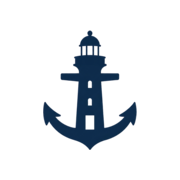
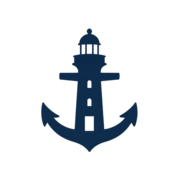
v1.10.4
Claude-Session: https://claude.ai/code/session_0155bbjeHgokccaxRQAN9Hf5

diff --git a/index.html b/index.html
@@ -4,7 +4,7 @@
   <meta charset="utf-8">
   <meta name="viewport" content="width=device-width, initial-scale=1">
   <title>Anchor Solas Pipe Band</title>
-  <meta name="version" content="v1.10.3">
+  <meta name="version" content="v1.10.4">
   <meta name="description" content="Anchor Solas Pipe Band, the alumni pipe band of the 64th Boys' Brigade Singapore.">
   <link rel="canonical" href="https://www.anchorsolaspb.com/">
   <meta property="og:type" content="website">
@@ -18,8 +18,11 @@
   <meta property="og:image:alt" content="Anchor Solas Pipe Band pipers and drummers in uniform">
   <meta name="twitter:card" content="summary_large_image">
   <meta name="theme-color" content="#1C2D4A">
-  <link rel="icon" href="favicon.ico" sizes="48x48">
-  <link rel="icon" type="image/png" href="assets/images/icon-192.png" sizes="192x192">
+  <link rel="icon" type="image/png" href="assets/images/favicon-192.png" sizes="192x192">
+  <link rel="icon" type="image/png" href="assets/images/favicon-144.png" sizes="144x144">
+  <link rel="icon" type="image/png" href="assets/images/favicon-96.png" sizes="96x96">
+  <link rel="icon" type="image/png" href="assets/images/favicon-48.png" sizes="48x48">
+  <link rel="icon" href="favicon.ico" sizes="16x16 32x32 48x48">
   <link rel="apple-touch-icon" href="assets/images/apple-touch-icon.png">
   <script type="application/ld+json">
   {

diff --git a/404.html b/404.html
@@ -6,8 +6,11 @@
   <title>Page not found | Anchor Solas Pipe Band</title>
   <meta name="robots" content="noindex">
   <meta name="theme-color" content="#1C2D4A">
-  <link rel="icon" href="/favicon.ico" sizes="48x48">
-  <link rel="icon" type="image/png" href="/assets/images/icon-192.png" sizes="192x192">
+  <link rel="icon" type="image/png" href="/assets/images/favicon-192.png" sizes="192x192">
+  <link rel="icon" type="image/png" href="/assets/images/favicon-144.png" sizes="144x144">
+  <link rel="icon" type="image/png" href="/assets/images/favicon-96.png" sizes="96x96">
+  <link rel="icon" type="image/png" href="/assets/images/favicon-48.png" sizes="48x48">
+  <link rel="icon" href="/favicon.ico" sizes="16x16 32x32 48x48">
   <link rel="apple-touch-icon" href="/assets/images/apple-touch-icon.png">
   <link rel="stylesheet" href="/assets/css/styles.css">
   <style>

diff --git a/CLAUDE.md b/CLAUDE.md
@@ -8,7 +8,7 @@ Project memory for Claude Code. Put this file at the root of the `anchorsolaspb.
 - Live at **https://www.anchorsolaspb.com** (HTTPS enforced). `https://anchorsolaspb.github.io` redirects there.
 - Built and maintained by Crego (owner of the repo and the `anchorsolaspb` GitHub organisation).
 - Must stay **free to run**. Do not add paid services.
-- Latest built version is **v1.10.3** (see `CHANGELOG.md`). The `<meta name="version">` tag in `index.html` holds the current version.
+- Latest built version is **v1.10.4** (see `CHANGELOG.md`). The `<meta name="version">` tag in `index.html` holds the current version.
 
 ## Hosting and services
 
@@ -36,7 +36,7 @@ No wildcard records. Custom domain in GitHub Pages settings is `www.anchorsolasp
 
 ```
 index.html                 Shell page. Loads scripts in order, holds meta, OG, version tags and JSON-LD (site name, logo)
-favicon.ico                Site icon 16/32/48 px (navy mark in a white circle). Also assets/images/icon-192.png, icon-512.png, apple-touch-icon.png
+favicon.ico                Site icon 16/32/48 px (navy mark in a white circle). Also assets/images/favicon-48/96/144/192.png (listed first in <head> so Google uses a large, sharp one), icon-512.png (JSON-LD logo), apple-touch-icon.png. Make icons from the full-size mark in git history (commit ad89244, logo-mark-navy.png 428x545), not the 200 px site copy
 404.html                   Standalone "page not found" page served by GitHub Pages. Plain HTML, absolute /assets paths, noindex
 CNAME                      Custom domain (managed by GitHub)
 CHANGELOG.md               Version history, newest first

diff --git a/CHANGELOG.md b/CHANGELOG.md
@@ -1,5 +1,8 @@
 # Anchor Solas Pipe Band website: changelog
 
+## v1.10.4 (3 Oct 2026)
+- Sharper site icon in Google results and browser tabs. Google was enlarging the small 48 px icon, which looked blurry. The site now offers crisp 48, 96, 144 and 192 px icons made from the full-size logo, and the lighthouse anchor sits a little larger in the white circle. Google shows the new icon after it next visits the site.
+
 ## v1.10.3 (1 Oct 2026)
 - Budget slider: dragging a handle no longer picks up a see-through copy of the slider (the browser's drag-and-drop image) or highlights text on the page, which made the handle stop following the mouse.
 
